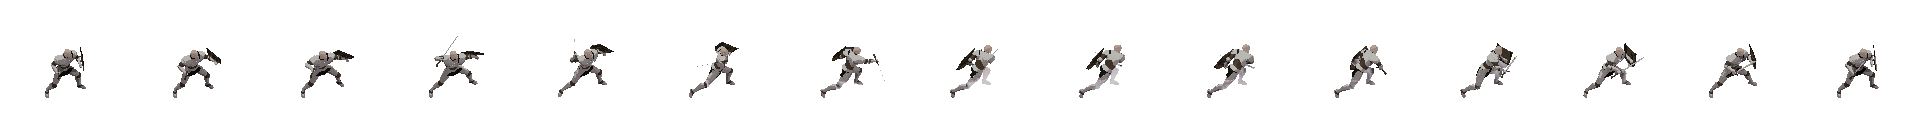
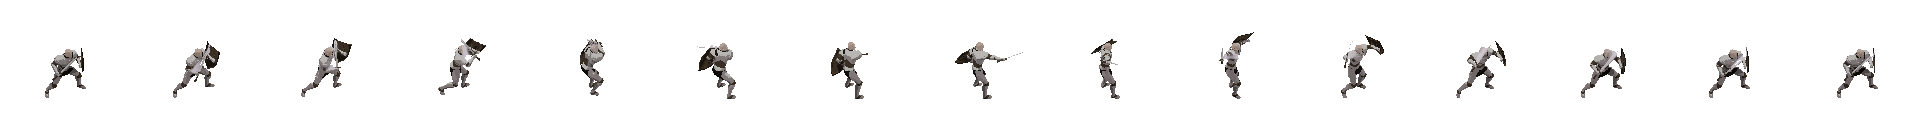
기사 애니메이션 동작 확장(13종)과 변환 도구 동작 목록 갱신
- assets/anim/knight: 강타·회전·연타·방어·도발·회피 시트 추가, 기존 공격/시전/피격/사망 시트 갱신
- assets/manifest.js: knight 동작별 fps 와 타격 프레임(hit) 선언
- tools/anim_tool.html, tools/extract_anim.ps1: 동작 목록을 시트 파일명(Melee2·Special1·Pummel 등)에 연결하고 타격 프레임 입력 추가
- assets/README.md: 동작 목록·스킬→동작 대체 규칙 설명 갱신
- 주의: SmallScaleInt 원본 시트 재배포 금지 — 저장소를 공개할 때는 assets/anim 을 빼거나 라이선스를 다시 확인한다

diff --git a/tools/anim_tool.html b/tools/anim_tool.html
@@ -49,7 +49,7 @@
   <section>
     <h2>③ 시트 규격·동작 파일</h2>
     <div class="row">칸 <input type="number" id="cell" value="128" min="16"> px · 열 <input type="number" id="cols" value="15" min="1"> · 행 <input type="number" id="rows" value="8" min="1"></div>
-    <table id="acts"><tr><th>동작</th><th>파일명(확장자 제외)</th><th>fps</th></tr></table>
+    <table id="acts"><tr><th>동작</th><th>파일명(확장자 제외)</th><th>fps</th><th>타격</th></tr></table>
     <div class="row"><label>확대 <select id="up"><option value="1">없음(원본 크기)</option><option value="2n">2배 · 픽셀 그대로</option><option value="2s">2배 · 부드럽게(Scale2x)</option></select></label><span class="dim">64px 시트를 128px 규격으로 맞출 때. 안 쓰고 64px 그대로 두면 게임이 도트 그대로 확대해 그린다(크기 값을 키우면 됨).</span></div>
     <div class="row"><label>그림자 제거 <select id="shadowMode"><option value="auto">자동(폴더 이름)</option><option value="cut">알파&lt;255 지움</option><option value="none">안 함</option></select></label></div>
   </section>
@@ -85,23 +85,24 @@
 'use strict';
 const COMPASS = ['오른쪽(E)', '오른쪽 아래(SE)', '정면(S)', '왼쪽 아래(SW)', '왼쪽(W)', '왼쪽 위(NW)', '뒷모습(N)', '오른쪽 위(NE)']; // 게임의 방향 번호 0~7 (시계 방향)
 const DEFAULT_ROWS = [0, 1, 2, 3, 4, 5, 6, 7];   // 방향 번호 → 시트 행 (초기값은 SmallScaleInt 시트에서 확인한 대응)
-const ACTS = [['idle', 'Idle', 10], ['walk', 'Walk', 14], ['atk', 'Melee', 18], ['cast', 'CastSpell', 16], ['hurt', 'TakeDamage', 15], ['die', 'Die', 12]];
+// [동작, 시트 파일명, fps, 타격 프레임(비우면 40%)]. 동작: atk 기본 공격 · heavy 강타 · sweep 회전/범위 · combo 연타 · shoot 원거리 · guard 방어 · taunt 도발 · cast 마법 · hurt 피격 · dodge 회피 · die 사망. 파일명은 SmallScaleInt Knight 기준이며 팩마다 바꿔 쓴다.
+const ACTS = [['idle', 'Idle', 10, ''], ['walk', 'Walk', 14, ''], ['atk', 'Melee2', 18, 8], ['heavy', 'Special1', 16, 9], ['sweep', 'Melee', 18, 6], ['combo', 'Pummel', 18, 5], ['shoot', 'Shoot', 18, 6], ['guard', 'ShieldBlockStart', 14, ''], ['taunt', 'Special2', 12, ''], ['cast', 'CastSpell', 16, 6], ['hurt', 'TakeDamage', 15, ''], ['die', 'Die', 12, ''], ['dodge', 'Rolling', 20, '']];
 const $ = id => document.getElementById(id);
 const st = { files: [], chars: [], sel: -1, outDir: null, dirRows: DEFAULT_ROWS.slice(), sheets: {}, strips: {}, t0: performance.now() };
 const log = m => { const l = $('log'); l.textContent += m + '\n'; l.scrollTop = l.scrollHeight; };
 
 /* ---------- 프로필 (설정 기억) ---------- */
 function saveProfile() {
-  try { localStorage.setItem('anim_tool_profile', JSON.stringify({ dirRows: st.dirRows, cell: +$('cell').value, cols: +$('cols').value, rows: +$('rows').value, size: +$('size').value, shadowMode: $('shadowMode').value, preferNoShadow: $('preferNoShadow').checked, up: $('up').value, acts: ACTS.map(a => [a[0], $('af_' + a[0]).value, +$('fps_' + a[0]).value]) })); } catch (e) { }
+  try { localStorage.setItem('anim_tool_profile', JSON.stringify({ dirRows: st.dirRows, cell: +$('cell').value, cols: +$('cols').value, rows: +$('rows').value, size: +$('size').value, shadowMode: $('shadowMode').value, preferNoShadow: $('preferNoShadow').checked, up: $('up').value, acts: ACTS.map(a => [a[0], $('af_' + a[0]).value, +$('fps_' + a[0]).value, $('hit_' + a[0]).value]) })); } catch (e) { }
 }
 function loadProfile() {
   try { const p = JSON.parse(localStorage.getItem('anim_tool_profile') || 'null'); if (!p) return;
     st.dirRows = p.dirRows || st.dirRows; $('cell').value = p.cell; $('cols').value = p.cols; $('rows').value = p.rows; $('size').value = p.size; $('shadowMode').value = p.shadowMode; $('preferNoShadow').checked = !!p.preferNoShadow; if (p.up) $('up').value = p.up;
-    (p.acts || []).forEach(a => { if ($('af_' + a[0])) { $('af_' + a[0]).value = a[1]; $('fps_' + a[0]).value = a[2]; } }); } catch (e) { }
+    (p.acts || []).forEach(a => { if ($('af_' + a[0])) { $('af_' + a[0]).value = a[1]; $('fps_' + a[0]).value = a[2]; if (a[3] !== undefined) $('hit_' + a[0]).value = a[3]; } }); } catch (e) { }
 }
 
 /* ---------- 화면 구성 ---------- */
-ACTS.forEach(([k, f, fps]) => { const tr = document.createElement('tr'); tr.innerHTML = `<td>${k}</td><td><input type="text" id="af_${k}" value="${f}"></td><td><input type="number" id="fps_${k}" value="${fps}" min="1" max="60"></td>`; $('acts').appendChild(tr); });
+ACTS.forEach(([k, f, fps, hit]) => { const tr = document.createElement('tr'); tr.innerHTML = `<td>${k}</td><td><input type="text" id="af_${k}" value="${f}"></td><td><input type="number" id="fps_${k}" value="${fps}" min="1" max="60"></td><td><input type="number" id="hit_${k}" value="${hit}" min="0" max="60" title="타격 순간 프레임"></td>`; $('acts').appendChild(tr); });
 ACTS.forEach(([k]) => { const o = document.createElement('option'); o.value = k; o.textContent = k; $('prevAct').appendChild(o); });
 function buildRing() {
   $('ring').innerHTML = '';
@@ -195,15 +196,22 @@ async function selectChar(i) {
 }
 $('autoFoot').onclick = () => { const ch = st.chars[st.sel]; if (!ch) return; const f = detectFoot(ch); if (f !== null) { ch.foot = f; $('foot').value = f; } };
 $('foot').oninput = () => { const ch = st.chars[st.sel]; if (ch) ch.foot = +$('foot').value; };
-['size', 'cell', 'cols', 'rows', 'shadowMode', 'preferNoShadow', 'up'].forEach(id => $(id).onchange = () => { st.strips = {}; saveProfile(); if (id === 'rows') buildRing(); });
+['size', 'cell', 'cols', 'rows', 'shadowMode', 'preferNoShadow', 'up'].forEach(id => $(id).onchange = () => { st.strips = {}; st.nCache = {}; saveProfile(); if (id === 'rows') buildRing(); });
 $('resetDirs').onclick = () => { st.dirRows = DEFAULT_ROWS.slice(); st.strips = {}; buildRing(); saveProfile(); };
 
 /* ---------- 미리보기 애니메이션 ---------- */
-const prevN = () => colsN();
+// 동작의 실제 프레임 수: 뒤쪽 빈 프레임은 뺀다(시트가 15열인데 동작이 더 짧을 때). 정면 방향 스트립으로 판정하고 캐시한다.
+function framesOf(ch, act) {
+  const key = ch.key + '|n|' + act + '|' + upMul() + cellPx(); if (st.nCache && st.nCache[key] !== undefined) return st.nCache[key];
+  const sp = stripOf(ch, act, 2), C = outC(), cols = colsN(), p = sp.getContext('2d').getImageData(0, 0, sp.width, C).data; let last = 0;
+  for (let f = 0; f < cols; f++) { let any = false; for (let y = 0; y < C && !any; y += 2) for (let x = 0; x < C; x += 2) if (p[(y * sp.width + f * C + x) * 4 + 3] > 0) { any = true; break; } if (any) last = f; }
+  (st.nCache = st.nCache || {})[key] = last + 1; return last + 1;
+}
+const prevN = (ch, act) => framesOf(ch, act);
 function frame() {
   const ch = st.chars[st.sel], act = $('prevAct').value;
   if (ch && ch.sheets && ch.sheets[act] && !st.busy) { // 내보내는 동안은 미리보기를 멈춰 인코딩에 CPU를 몰아준다
-    const fps = +$('fps_' + act).value, fr = Math.floor((performance.now() - st.t0) / 1000 * fps) % prevN(), C = outC();
+    const fps = +$('fps_' + act).value, fr = Math.floor((performance.now() - st.t0) / 1000 * fps) % prevN(ch, act), C = outC();
     for (let d = 0; d < 8; d++) { const c = $('rc' + d); if (!c) continue; const x = c.getContext('2d'); x.clearRect(0, 0, 128, 128); x.fillStyle = '#10131c'; x.fillRect(0, 0, 128, 128);
       x.strokeStyle = '#3a4160'; x.setLineDash([3, 3]); x.beginPath(); x.moveTo(0, +$('foot').value * 128 / C + 0.5); x.lineTo(128, +$('foot').value * 128 / C + 0.5); x.stroke(); x.setLineDash([]);
       x.imageSmoothingEnabled = C > 64; x.drawImage(stripOf(ch, act, d), fr * C, 0, C, C, 0, 0, 128, 128); }
@@ -236,12 +244,12 @@ $('export').onclick = async () => {
   for (const ch of todo) {
     const key = prefix + ch.key + suffix; if (!ch.key || used.has(key)) { log(`건너뜀: 이름이 비었거나 겹침 (${key})`); continue; } used.add(key);
     try {
-      await ensureSheets(ch); const C = outC(), n = colsN(), foot = ch.foot ?? detectFoot(ch) ?? Math.round(C * 0.8), fps = {}, nn = {};
-      for (const [act] of ACTS) { if (!ch.sheets[act]) continue; fps[act] = +$('fps_' + act).value; nn[act] = n;
+      await ensureSheets(ch); const C = outC(), n = colsN(), foot = ch.foot ?? detectFoot(ch) ?? Math.round(C * 0.8), fps = {}, nn = {}, hit = {};
+      for (const [act] of ACTS) { if (!ch.sheets[act]) continue; fps[act] = +$('fps_' + act).value; nn[act] = framesOf(ch, act); if ($('hit_' + act).value !== '') hit[act] = +$('hit_' + act).value;
         await Promise.all([0, 1, 2, 3, 4, 5, 6, 7].map(async d => writeFile(st.outDir, `anim/${key}/${act}_${d}.png`, await toBlob(makeStrip(ch, ch.sheets[act], st.dirRows[d], n))))); // 방향 8개를 동시에 인코딩
       }
       if (!fps.idle) { log(`경고: ${key} 에 idle 이 없다 — 게임에서 쓰려면 idle 이 필요하다`); }
-      data[key] = { size: +$('size').value, cell: C, foot, fps, n: nn, path: `assets/anim/${key}/{act}_{dir}.png` }; done++; log(`완료: ${key} (동작 ${Object.keys(fps).join(',')})`);
+      data[key] = { size: +$('size').value, cell: C, foot, fps, n: nn, hit, path: `assets/anim/${key}/{act}_{dir}.png` }; done++; log(`완료: ${key} (동작 ${Object.keys(fps).join(',')})`);
     } catch (e) { log(`실패: ${key} — ${e.message}`); }
   }
   const js = `// 자동 생성: tools/anim_tool.html — 손으로 고치지 않는다 (다시 내보내면 같은 이름은 덮어쓰고 나머지는 유지)\nwindow.ASSET_MANIFEST = window.ASSET_MANIFEST || {};\nwindow.ASSET_MANIFEST.anims = Object.assign(window.ASSET_MANIFEST.anims || {}, /*DATA*/${JSON.stringify(data, null, 1)}/*END*/);\n`;

diff --git a/assets/manifest.js b/assets/manifest.js
@@ -41,5 +41,5 @@ window.ASSET_MANIFEST = {
 // 방향 {dir} 은 0~7 (시계 방향, 0=오른쪽(E) 1=오른쪽 아래 2=정면(S) 3=왼쪽 아래 4=왼쪽 5=왼쪽 위 6=뒷모습(N) 7=오른쪽 위). 스트립은 tools/extract_anim.ps1 로 만든다.
 // 선언이 없거나 못 불러오면 정지 이미지/이모지로 대체된다.
 window.ASSET_MANIFEST.anims = {
-  knight: { size: 128, foot: 102, fps: { idle: 10, walk: 14, atk: 18, cast: 16, hurt: 15, die: 12 }, path: 'assets/anim/knight/{act}_{dir}.png' },
+  knight: { size: 128, foot: 102, fps: { idle: 10, walk: 14, atk: 18, heavy: 16, sweep: 18, combo: 18, guard: 14, taunt: 12, cast: 16, hurt: 15, die: 12, dodge: 20 }, hit: { atk: 8, heavy: 9, sweep: 6, combo: 5, cast: 6 }, path: 'assets/anim/knight/{act}_{dir}.png' },
 };

diff --git a/assets/README.md b/assets/README.md
@@ -29,7 +29,7 @@ slime(슬라임), goblin(고블린), gobarch(고블린 궁수), bat(큰박쥐), 
 
 ## 애니메이션 (선택)
 - 용병은 정지 이미지 대신 가로 스트립 애니메이션을 쓸 수 있다. `manifest.js` 의 `anims.<용병 이름 또는 직업>` = `{ size, foot, fps:{동작}, path:'assets/anim/이름/{act}_{dir}.png' }`. 방향 `{dir}` 0~7(시계 방향: 0=E 1=SE 2=정면 3=SW 4=W 5=NW 6=뒷모습 7=NE)을 모두 갖춘다. 이동 중이면 가는 쪽, 공격·시전이면 대상 쪽을 바라본다.
-- 동작: `idle`(대기) `walk`(이동) `atk`(기본 공격) `cast`(스킬·시전) `hurt`(피격) `die`(사망). 스트립은 프레임 15장을 가로로 이어 붙인 PNG(프레임 128×128, 그림자 없음). `foot` 은 칸 안 발 위치(y). 선언이 없거나 못 불러오면 정지 이미지/이모지로 대체된다.
+- 동작: `idle`(대기) `walk`(이동) `atk`(기본 공격) `heavy`(강타) `sweep`(회전·범위 근접) `combo`(연타) `shoot`(원거리) `guard`(방어) `taunt`(도발) `cast`(마법) `hurt`(피격) `dodge`(회피) `die`(사망). 없는 동작은 아래 후보 순서로 대체된다(`idle`·`hurt` 는 있어야 자연스럽다). 스킬→동작: 강타 `heavy`→`atk`, 회전베기 `sweep`→`atk`, 연속 찌르기 `combo`→`atk`, 일제사격 `shoot`→`atk`, 방어태세 `guard`→`taunt`→`cast`, 도발 `taunt`→`guard`→`cast`, 마법·치유 `cast`→`atk`. 방어태세 중 맞으면 `guard`, 아니면 `hurt`, 빗나가면 `dodge`. 매니페스트 `hit: {동작: 타격 프레임}` 으로 피해 숫자·피격 모션이 그 프레임에 맞춰 나온다(없으면 40%). 스트립은 프레임 15장을 가로로 이어 붙인 PNG(프레임 128×128, 그림자 없음). `foot` 은 칸 안 발 위치(y). 선언이 없거나 못 불러오면 정지 이미지/이모지로 대체된다.
 - 전투판(캠프 포함)·주점·미로 행렬에서 재생된다. 쓰러진 대원은 `die` 를 재생한 뒤 사라진다.
 - **변환 도구(권장): `tools/anim_tool.html`** — 서버를 켠 뒤 `http://localhost:8123/tools/anim_tool.html` 을 크롬/엣지로 연다. ①원본 폴더(캐릭터 여러 개가 든 상위 폴더도 가능) ②게임의 `assets` 폴더를 고르고, 방향 확인 칸에서 방향별 행을 맞추면(프로필로 저장되어 다음 캐릭터에도 적용) 선택한 캐릭터를 한꺼번에 내보낸다. 결과는 `assets/anim/<이름>/` PNG 와 `assets/anim/anims.js`(manifest 항목, 자동 생성·병합)이며 `index.html` 이 `anims.js` 를 불러온다. 이름은 직업(`knight`)·용병 이름·몬스터 id(`goblin`)·보스(`boss10`)이고, 동작별 프레임 수는 `n` 으로 기록된다. 몬스터·보스도 같은 방식으로 애니메이션이 적용된다.
 - 도구 없이 쓰려면 SmallScaleInt 계열 시트(1920×1024, 15열×8행)를 `powershell -File tools\extract_anim.ps1 -Src <시트 폴더> -Name <이름> -Dirs 0,1,2,3,4,5,6,7 -Out <assets\anim\이름 절대경로>` 로 변환한다(방향 = 시트 행 번호, 출력의 `foot` 값을 manifest 에 적는다).
